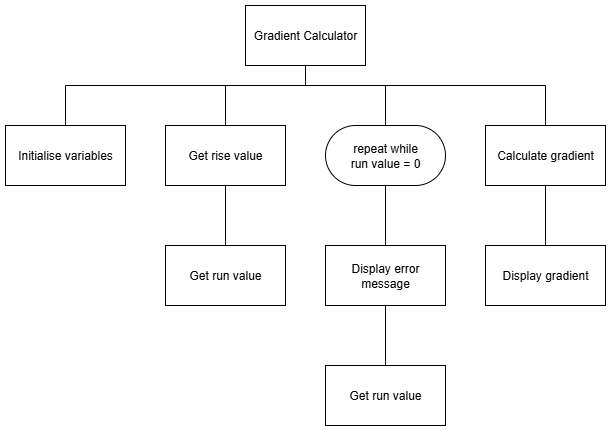
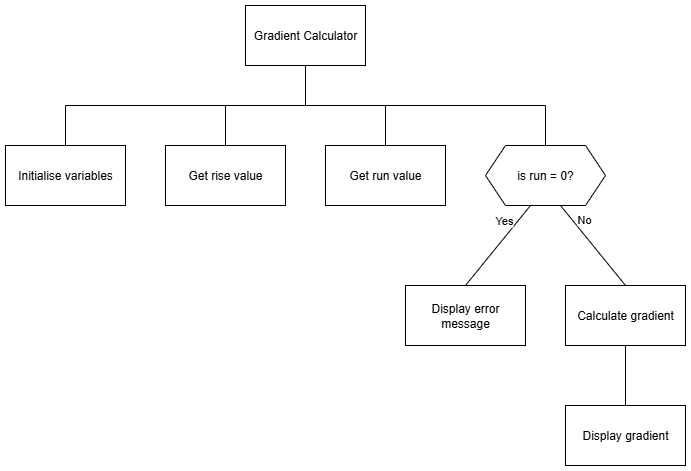
Updated

diff --git a/n5-cs/sdd/N5-SDD-Gradient/index2.md b/n5-cs/sdd/N5-SDD-Gradient/index2.md
@@ -8,7 +8,7 @@ Calculate the gradient of a slope when the user enters values for the **rise** a
 
 ### Top level design (Structure diagram)
 
-![Structure diagram](assets/sd1.png)
+![Structure diagram](assets/sd2.png)
 
 
 ### Calculate gradient
